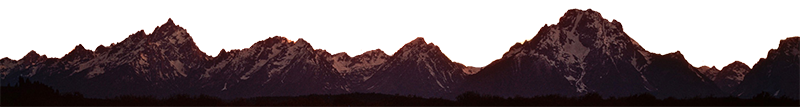
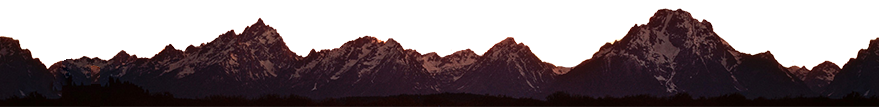
made new mountain image to repeat

diff --git a/script.js b/script.js
@@ -451,8 +451,10 @@ export function totalDeath() {
 // i need to rethink the next steps in terms of mvp
 // FIXED:: big one visually - right now when you reach a loc the wagon covers it. extend each path by 2 or something so it's in front of you.
 // FIXED:: new visual issue - route needs to shrink with progress so background mountains don't stop.
-// new visual issue - 1. some forts not appearing. 2. long routes - left side mountians don't extend to right all the way to fort/river
 // snake river strange behavior. miles not counting down. does not stop when reached (former prob causes latter)
+// new visual issue - 1. some forts not appearing. FIXED:: 2. long routes - left side mountians don't extend to right all the way to fort/river
+// FIXED:: new visual issue - right side mountains scroll, but don't always stretch to right side of screen (had to turn off no-repeat)
+
 // visuals - start with prarie background. switch to hills. finally mountains. something like that.
 // food makes you die. need to make it make your health drop, just like a disease, which works
 // health = 0 = death. code removal of person, probably easy

diff --git a/Styles/style.css b/Styles/style.css
@@ -189,7 +189,7 @@ html, body {
 #background-bar {
     width: 100vw;
     position: inherit;
-    background-repeat: no-repeat;
+    /* background-repeat: no-repeat; */
     /* flex-wrap: wrap; */
     background-image: url("../images/mountains.png");
 }
@@ -197,7 +197,7 @@ html, body {
 .path-1, .path-2, .path-3, .path-4, .path-5, .path-6, .path-7, .path-8 {
     height: 100%;
     background-color: rgb(217, 176, 255);
-    background-repeat: no-repeat;
+    /* background-repeat: no-repeat; */
     background-image: url("../images/mountains.png");
 }
 
